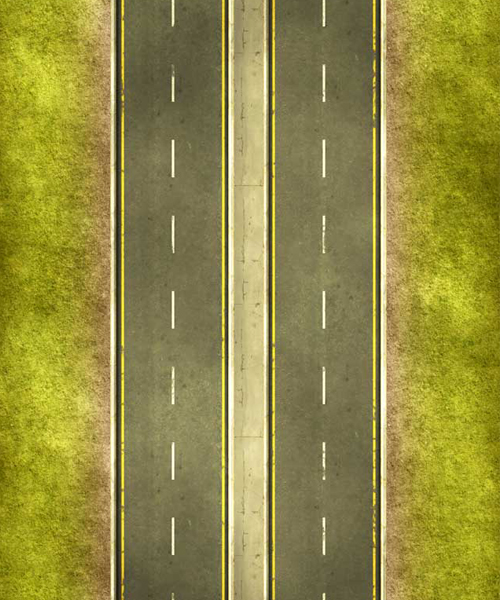
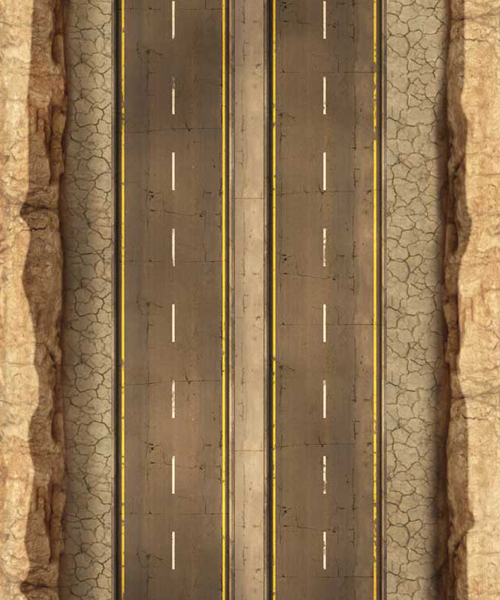
update ảnh background

diff --git a/gameCar.js b/gameCar.js
@@ -50,8 +50,8 @@ function update() {
 
     for (let i = 0; i < enemys.length; i++) {
         if (enemys[i].y >= 600) {
-            enemys[i].y = i * 40;
-            enemys[i].x = Math.random() * 500;
+            enemys[i].y = i * 50;
+            enemys[i].x = Math.random() * 450;
             score += 1
             speed += 0.3;
         } else {

diff --git a/indexGameCar.html b/indexGameCar.html
@@ -8,7 +8,7 @@
             background-color: white;
         }
         #myCanvas {
-            background-image: url("image/background.jpg");
+            background-image: url("image/background1.jpg");
             border: 2px solid #FFF;
             position: absolute;
         }

diff --git a/background.js b/background.js
@@ -14,3 +14,4 @@ class Background {
 }
 
 let backgroundImg = new Background(0,0,500,600)
+
